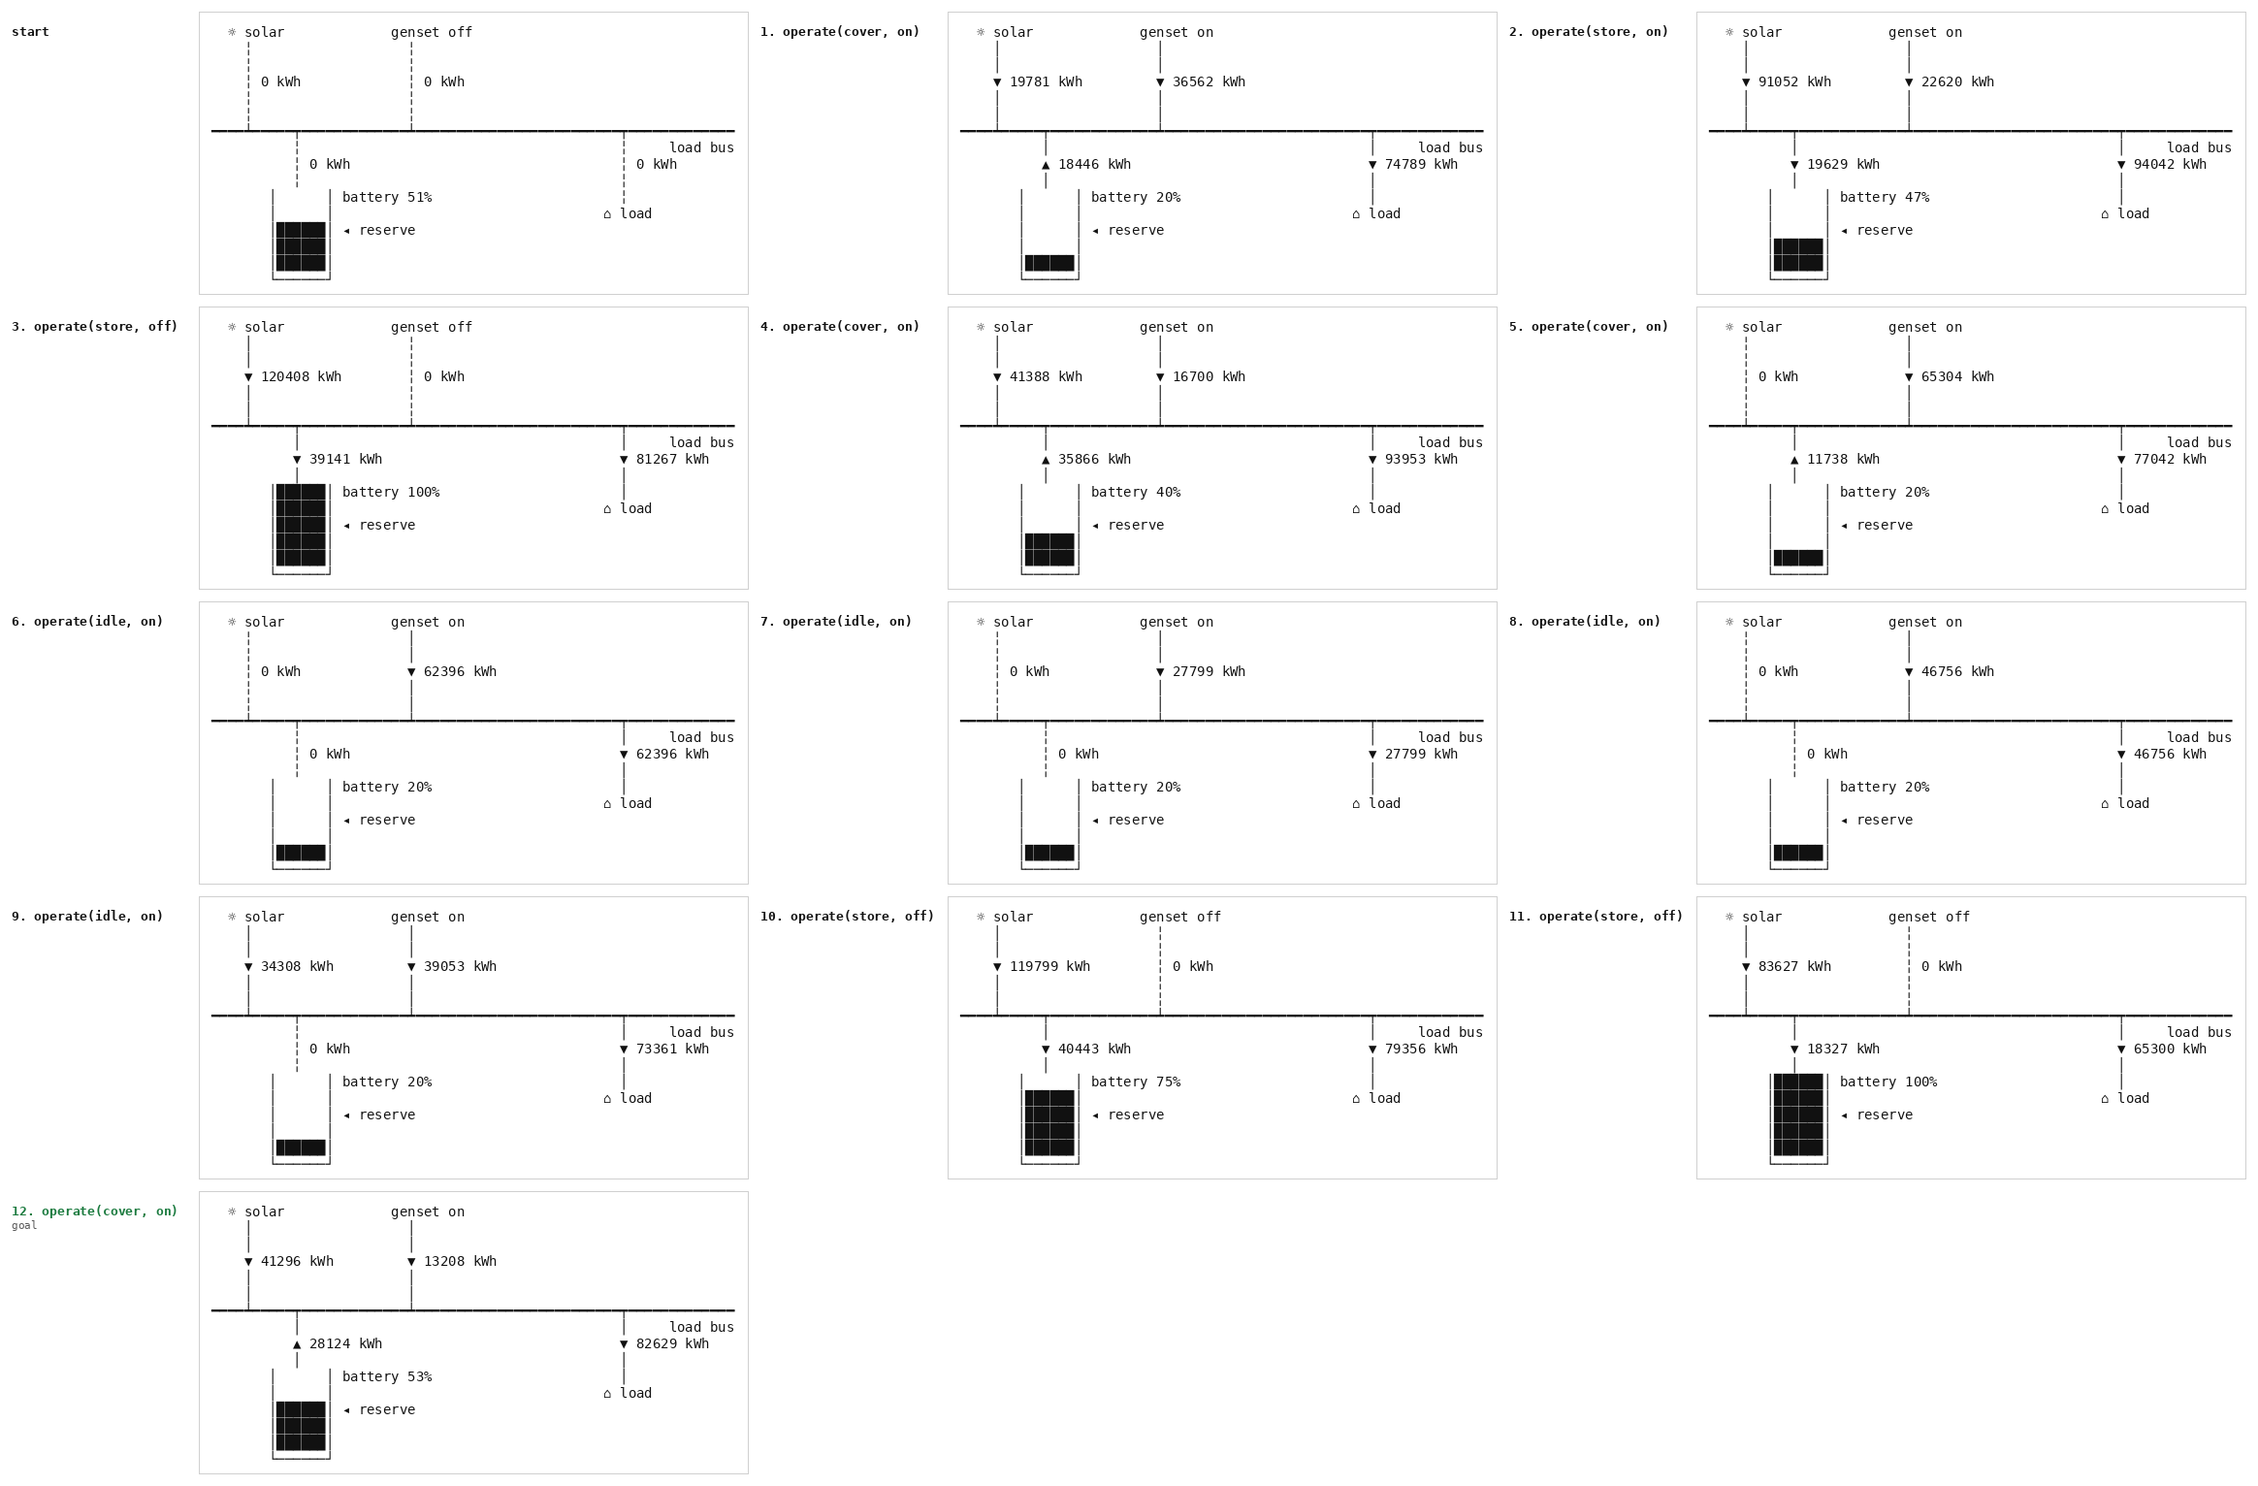
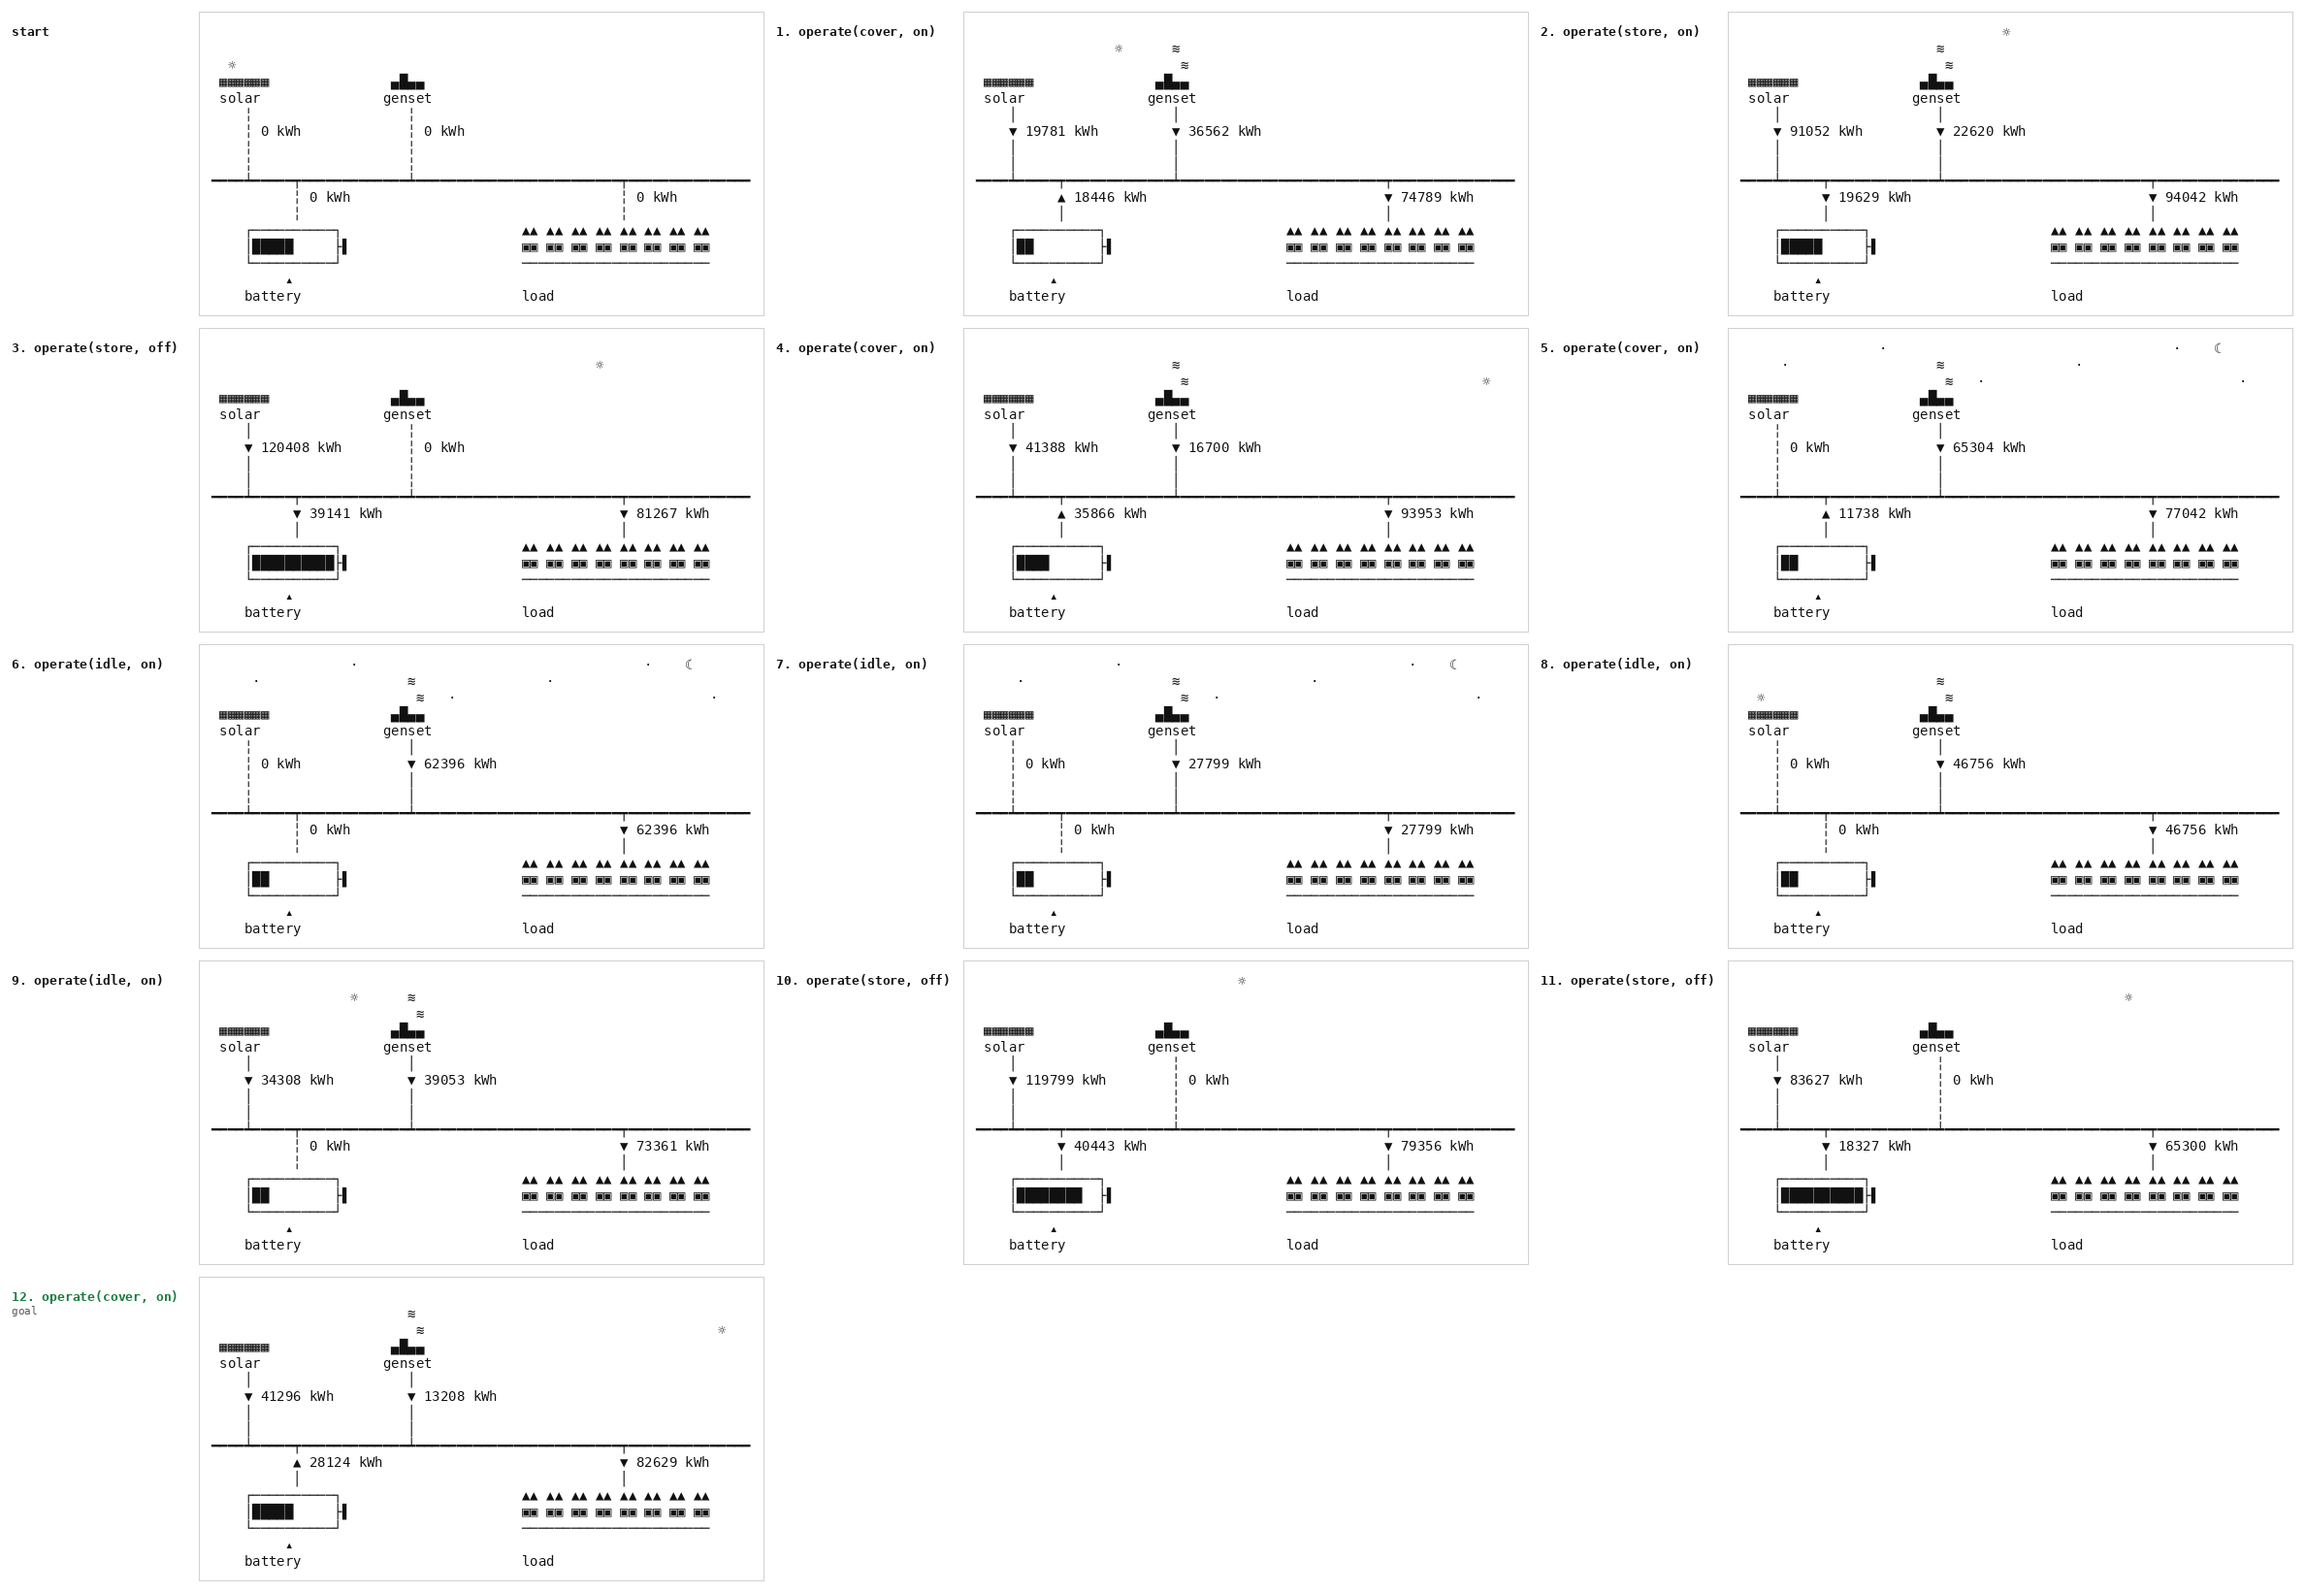
Draw the microgrid as a site through the day
The sky keeps the clock, sun by day and moon at night; the sources stand
under it, panels, a genset hut that smokes while it runs and the grid's
pylon; and below the bus hang a battery cell filled to its charge and a
row of houses lit for the load served.

Claude-Session: https://claude.ai/code/session_01CbUM6vVu3Q3wBSzyXUJpxb

diff --git a/planiverse/environments/operational/microgrid/environment.py b/planiverse/environments/operational/microgrid/environment.py
@@ -39,7 +39,7 @@ from collections import namedtuple
 
 from planiverse.environments.base import Environment
 from planiverse.environments.generation import draw_until, rng
-from planiverse.rendering.text import Canvas, tank
+from planiverse.rendering.text import Canvas
 
 #: Hours a decision holds for, and what the battery may be told to do for them.
 PERIOD = 3
@@ -105,8 +105,6 @@ class MicrogridAction:
 #: connection. One per instance, shared by its states and outside their identity.
 Site = namedtuple("Site", ["genset", "grid"])
 
-#: The battery gauge's height in the picture, in rows.
-GAUGE_ROWS = 5
 
 
 class MicrogridState:
@@ -155,17 +153,29 @@ class MicrogridState:
                 f"lost={self.lost:.1f})>")
 
     def __str__(self):
-        """A one-line diagram of the microgrid.
+        """The microgrid as a site through the day.
 
-        Solar, the genset and the grid feed the load bus from above, and the battery and the
-        load hang below it. Each link carries the last period's energy and an arrow for its
-        direction, dashed when nothing flowed; the battery is a gauge filled to its charge,
-        with its reserve marked.
+        The sky follows the clock: the sun crosses it by day, the moon and stars are out at
+        night. Under it stand the sources, the solar panels ▦, the genset's hut, smoking ≋
+        while it runs, and the grid's pylon where the site has one, each linked down to the
+        load bus with the last period's energy and an arrow for its direction (dashed when
+        nothing flowed). Below the bus hang the battery, its cells filled to its charge with
+        its reserve marked, and the load, a row of houses with their windows lit ▣ in the
+        share of the load served and dark □ for what went unmet.
         """
         load, solar, battery, genset, grid = self.flows
         site = self.site or Site(True, True)
-        canvas = Canvas(64, 17)
-        bus = 6
+        width = 66
+        canvas = Canvas(width, 18)
+        sky, ground, bus = 3, 5, 9
+        # the sky, by the hour of the day
+        clock = (self.start + self.hour) % 24
+        if 6 <= clock <= 18:
+            canvas.put(2 + round((clock - 6) / 12 * (width - 6)), abs(clock - 12) // 3, "☼")
+        else:
+            for x, y in ((5, 1), (17, 0), (29, 2), (41, 1), (53, 0), (61, 2)):
+                canvas.put(x, y, "·")
+            canvas.put(width - 8, 0, "☾")
 
         def link(x, top, bottom, into_bus, above):
             """A link at column `x` from row `top` to `bottom`, above or below the bus, with
@@ -176,35 +186,54 @@ class MicrogridState:
                 canvas.write(x + 2, middle, "0 kWh")
             else:
                 canvas.vline(x, top, bottom, char="│")
-                towards = "▼" if above else "▲"
-                away = "▲" if above else "▼"
+                towards, away = ("▼", "▲") if above else ("▲", "▼")
                 canvas.put(x, middle, towards if into_bus > 0 else away)
                 canvas.write(x + 2, middle, f"{abs(into_bus):.0f} kWh")
             junctions.append((x, "┷" if above else "┯"))
 
         junctions = []
-        canvas.write(2, 0, "☼ solar")
-        link(4, 1, bus - 1, solar, True)
+        # the sources
+        canvas.write(1, sky, "▦▦▦▦▦▦")
+        canvas.write(1, ground - 1, "solar")
+        link(4, ground, bus - 1, solar, True)
         if site.genset:
-            canvas.write(22, 0, f"genset {'on' if genset > 0.05 else 'off'}")
-            link(24, 1, bus - 1, genset, True)
+            running = genset > 0.05
+            if running:
+                canvas.write(24, sky - 2, "≋")
+                canvas.write(25, sky - 1, "≋")
+            canvas.write(22, sky, "▄█▄▄")
+            canvas.write(21, ground - 1, "genset")
+            link(24, ground, bus - 1, genset, True)
         if site.grid:
-            flow = "import" if grid > 0.05 else "export" if grid < -0.05 else "idle"
-            canvas.write(42, 0, f"grid {flow}")
-            link(44, 1, bus - 1, grid, True)
-        link(10, bus + 1, 9, battery, False)
-        link(50, bus + 1, 10, -load, False)
-        canvas.hline(0, 63, bus, char="━")
+            canvas.write(42, sky - 1, "╲┃╱")
+            canvas.write(42, sky, "─╋─")
+            canvas.write(42, ground - 1, "╱┃╲")
+            canvas.write(46, ground - 1, "grid")
+            link(43, ground, bus - 1, grid, True)
+        link(10, bus + 1, 11, battery, False)
+        link(50, bus + 1, 11, -load, False)
+        canvas.hline(0, width - 1, bus, char="━")
         for x, char in junctions:
             canvas.put(x, bus, char)
-        canvas.write(56, bus + 1, "load bus")
-        for row, line in enumerate(tank(self.soc, GAUGE_ROWS, 6)):
-            canvas.write(7, 10 + row, line)
-        reserve_row = 10 + GAUGE_ROWS - int(round(min(1.0, self.reserve) * GAUGE_ROWS))
-        canvas.write(16, min(reserve_row, 10 + GAUGE_ROWS - 1), "◂ reserve")
-        canvas.write(16, 10, f"battery {self.soc:.0%}" if reserve_row != 10 else
-                     f"battery {self.soc:.0%} ◂ reserve")
-        canvas.write(48, 11, "⌂ load")
+        # the battery, its cells filled to its charge, its reserve marked under it
+        cells = 10
+        full = int(round(min(1.0, self.soc) * cells))
+        reserve = int(round(min(1.0, self.reserve) * cells))
+        canvas.write(4, 12, "┌" + "─" * cells + "┐")
+        canvas.write(4, 13, "│" + "█" * full + " " * (cells - full) + "├▌")
+        canvas.write(4, 14, "└" + "─" * cells + "┘")
+        canvas.put(4 + max(1, reserve), 15, "▴")
+        canvas.write(4, 16, "battery")
+        # the load, houses lit in the share served
+        houses = 8
+        unmet = min(1.0, self.lost / load) if load > 0 and self.lost > 0 else 0.0
+        lit = houses - int(round(unmet * houses))
+        for k in range(houses):
+            x = 38 + 3 * k
+            canvas.write(x, 12, "▲▲")
+            canvas.write(x, 13, ("▣" if k < lit else "□") * 2)
+        canvas.write(38, 14, "─" * (3 * houses - 1))
+        canvas.write(38, 16, "load")
         return str(canvas)
 
 

diff --git a/tests/test_microgrid.py b/tests/test_microgrid.py
@@ -183,9 +183,11 @@ def test_the_picture_draws_the_microgrid(env):
     state, info = env.reset()
     picture = str(state)
     assert isinstance(picture, str) and picture and not missing_glyphs(picture)
-    for element in ("☼ solar", "battery", "⌂ load", "◂ reserve", "━"):
+    for element in ("▦", "solar", "battery", "▴", "load", "▣", "━"):
         assert element in picture
-    assert ("genset" in picture) == info["genset"] and ("grid " in picture) == info["grid"]
+    assert ("genset" in picture) == info["genset"] and ("╋" in picture) == info["grid"]
+    assert ("☼" in picture) == (6 <= (state.start + state.hour) % 24 <= 18), "the sky keeps time"
     child = env.__advance__(state, env.get_actions()[0])
     assert str(child) != picture and "kWh" in str(child)
+    assert ("□" in str(child)) == (child.lost > 0), "a house goes dark for the load unmet"
     assert len(str(child).splitlines()) == len(picture.splitlines())

diff --git a/docs/environments/microgrid.md b/docs/environments/microgrid.md
@@ -149,21 +149,26 @@ thing, and where solar meets the load `store` and `cover` do too.
 
 ![BFWS solving microgrid instance 0](../renders/microgrid.gif)
 
-Each frame is the state's picture, a one-line diagram of the microgrid. Solar, the genset and the
-grid, those of them the microgrid has, feed the load bus from above, with the genset's switch and
-the grid's direction beside them; the battery and the load hang below it. Each link carries the last
-period's energy in kWh with an arrow for its direction, and is dashed when nothing flowed. The
-battery is a gauge filled to its state of charge, with the reserve it must end at or above marked
-beside it.
+Each frame is the state's picture, the microgrid as a site through the day. The sky keeps the
+clock: the sun crosses it by day and the moon and stars are out at night. Under it stand the
+sources the microgrid has, the solar panels, the genset's hut, smoking while it runs, and the
+grid's pylon, each linked down to the load bus with the last period's energy in kWh and an arrow for
+its direction, dashed when nothing flowed. Below the bus hang the battery, its cell filled to its
+state of charge with the reserve it must end at or above marked under it, and the load, a row of
+houses with their windows lit for the share of the load served and dark for any left unmet.
 
 | Mark | Meaning |
 |---|---|
+| `☼`, `☾` | the sun by day, at its hour, and the moon at night |
+| `▦▦▦` | the solar panels |
+| `▄█▄▄` with `≋` | the genset, smoking while it runs |
+| `╲┃╱ ─╋─` | the grid's pylon |
 | `━━┷━━` `━━┯━━` | the load bus, and a link joining it from above or below |
 | `▼ 120 kWh` | a link and the energy it carried last period, in the arrow's direction |
 | `╎ 0 kWh` | a link that carried nothing |
-| `│██│` | the battery, filled to its state of charge |
-| `◂ reserve` | the charge the battery must be at or above when the horizon ends |
-| `☼ solar`, `genset on`, `grid import`, `⌂ load` | the modules |
+| `│█████   ├▌` | the battery, filled to its state of charge |
+| `▴` | the charge the battery must be at or above when the horizon ends |
+| `▣`, `□` | a house's windows, lit for the load served or dark for the load unmet |
 
 The same plan is also a [sheet](../renders/microgrid.png), every state on one figure, each
 captioned with the action that produced it and the goal marked where the plan ends. Both were
